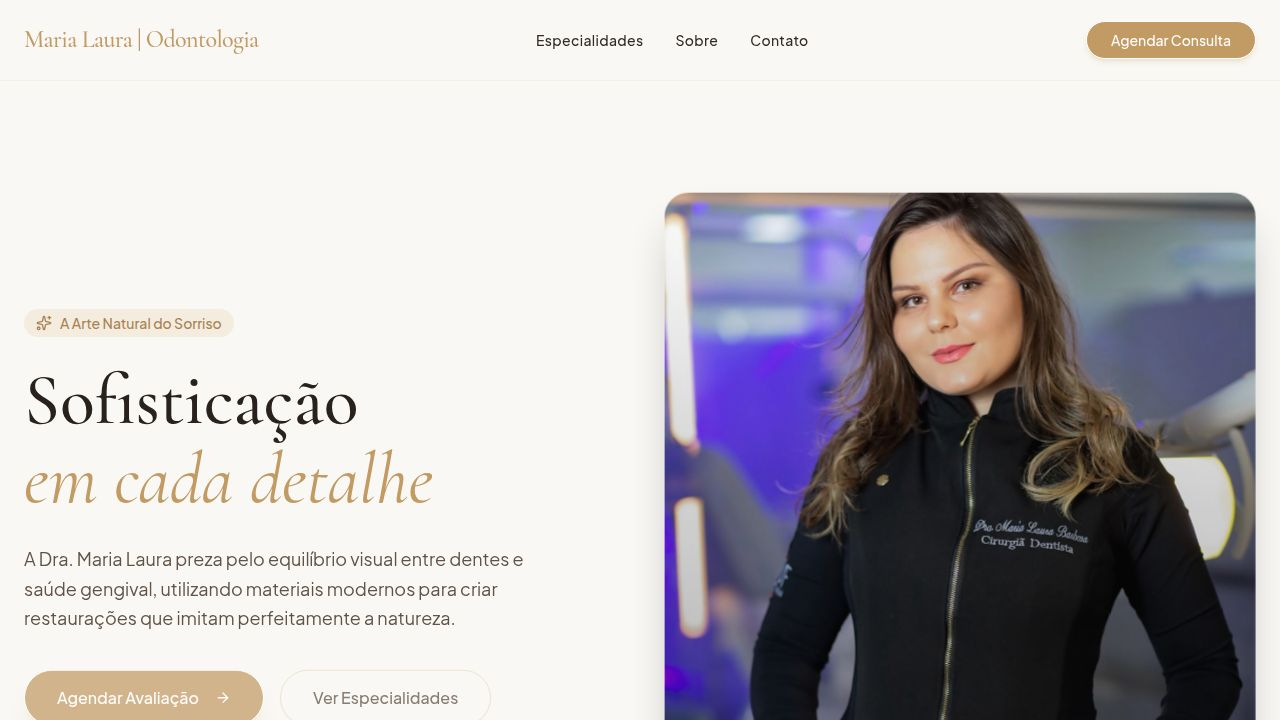
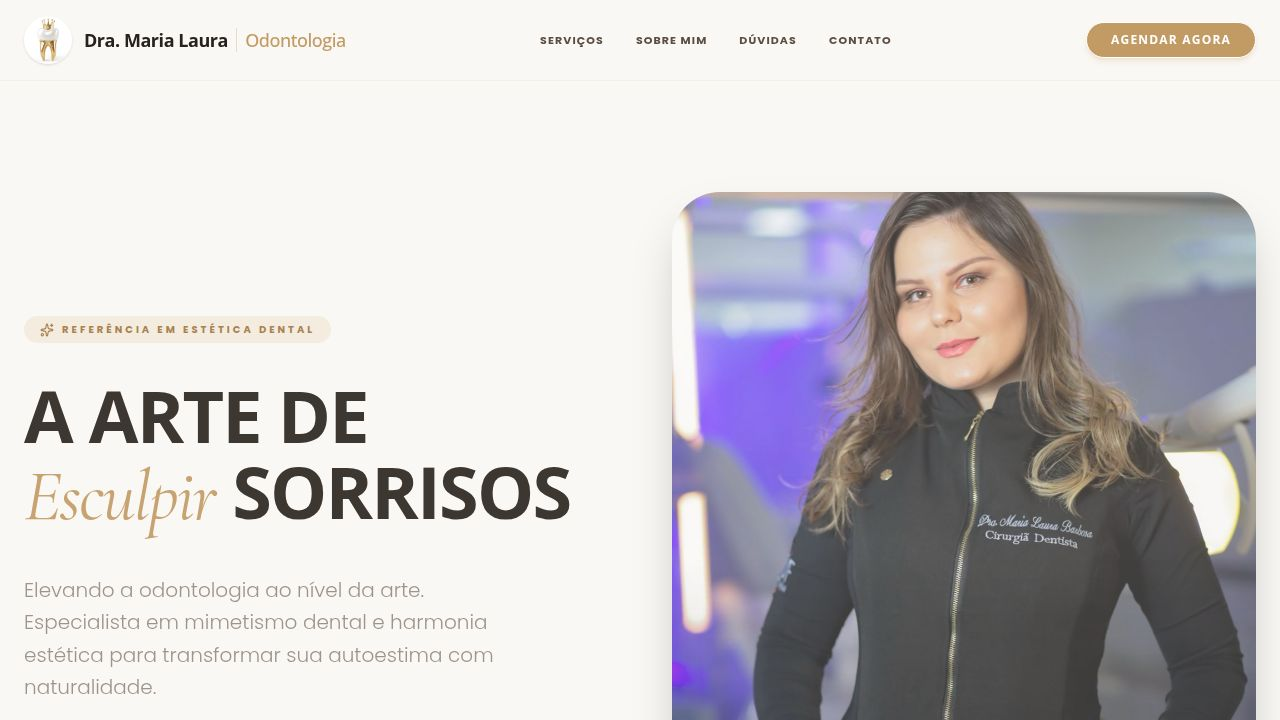
Add dedicated section about the dentist and professionalize the website header
Update header with new logo and professional title. Add "About Me" section detailing the dentist's background and qualifications.

Replit-Commit-Author: Agent
Replit-Commit-Session-Id: 86b4618d-7fe5-4302-82af-91324451bb15
Replit-Commit-Checkpoint-Type: full_checkpoint
Replit-Commit-Event-Id: 5afdd86a-aede-418f-9a01-798e5a7e29dd
Replit-Commit-Screenshot-Url: https://storage.googleapis.com/screenshot-production-us-central1/1a31a843-64e6-4ee4-829d-a28252569952/86b4618d-7fe5-4302-82af-91324451bb15/iKNLTC9
Replit-Helium-Checkpoint-Created: true

diff --git a/client/src/pages/home.tsx b/client/src/pages/home.tsx
@@ -1,26 +1,23 @@
 import { motion, AnimatePresence } from "framer-motion";
 import { useState, useEffect } from "react";
-import { ArrowRight, MapPin, Sparkles, Smile, Star, CheckCircle2, ChevronRight, ChevronLeft, Instagram, Phone, Mail, ExternalLink } from "lucide-react";
+import { ArrowRight, MapPin, Sparkles, Smile, Star, CheckCircle2, ChevronRight, ChevronLeft, Instagram, Phone, Mail, ExternalLink, Award, Heart } from "lucide-react";
 import { Button } from "@/components/ui/button";
 import { Accordion, AccordionContent, AccordionItem, AccordionTrigger } from "@/components/ui/accordion";
 
-// Dentist Photos
+// Assets
 import dentist1 from "@assets/WhatsApp_Image_2026-02-24_at_12.42.38_(1)_1771948728851.jpeg";
 import dentist2 from "@assets/WhatsApp_Image_2026-02-24_at_12.42.36_1771948728854.jpeg";
 import dentist3 from "@assets/WhatsApp_Image_2026-02-24_at_12.42.35_1771948728854.jpeg";
 import dentist4 from "@assets/WhatsApp_Image_2026-02-24_at_12.42.37_1771948728853.jpeg";
-
-// Specialty Photos
 import specMimetismo from "@assets/WhatsApp_Image_2026-02-24_at_13.05.38_1771949220712.jpeg";
 import specClareamento from "@assets/WhatsApp_Image_2026-02-24_at_13.06.05_1771949220711.jpeg";
 import specPeriodontal from "@assets/WhatsApp_Image_2026-02-24_at_13.06.19_1771949220710.jpeg";
 import specRestauracao from "@assets/WhatsApp_Image_2026-02-24_at_13.06.31_1771949220708.jpeg";
-
-// New Assets
 import whatsappIcon from "@assets/whatsapp_4008228_1771950564376.png";
-import teethLogo from "@assets/teeth_16255989_1771950564377.png";
+import toothCrownLogo from "@assets/WhatsApp_Image_2026-02-24_at_14.00.46_1771953908609.jpeg";
 
 const dentistPhotos = [dentist1, dentist2, dentist3, dentist4];
+const WHATSAPP_URL = "https://wa.me/5564981644853?text=Olá,%20Dra.%20Maria%20Laura!%20Gostaria%20de%20conhecer%20os%20serviços%20e%20agendar%20uma%20avaliação.";
 
 const fadeIn = {
   hidden: { opacity: 0, y: 20 },
@@ -52,20 +49,22 @@ export default function Home() {
       <nav className="fixed top-0 w-full z-50 bg-[#faf8f5]/80 backdrop-blur-md border-b border-[#ebdabe]/30">
         <div className="max-w-7xl mx-auto px-6 h-20 flex items-center justify-between">
           <div className="flex items-center gap-3">
-             <img src={teethLogo} alt="Logo" className="w-10 h-10 object-contain drop-shadow-sm" />
-             <div className="font-heading text-xl font-bold tracking-tight text-[#29221c]">
-              Maria Laura <span className="text-[#c29a63] font-medium">Odontologia</span>
+             <img src={toothCrownLogo} alt="Logo" className="w-12 h-12 object-contain rounded-full shadow-sm" />
+             <div className="font-heading text-lg font-bold tracking-tight text-[#29221c]">
+              Dra. Maria Laura <span className="text-[#c29a63] font-medium border-l border-[#c29a63]/30 pl-2 ml-1">Odontologia</span>
             </div>
           </div>
           <div className="hidden md:flex gap-8 text-[11px] font-bold tracking-[0.1em] uppercase text-[#5c4d40]">
             <a href="#especialidades" className="hover:text-[#c29a63] transition-colors">Serviços</a>
-            <a href="#sobre" className="hover:text-[#c29a63] transition-colors">A Dra.</a>
+            <a href="#sobre" className="hover:text-[#c29a63] transition-colors">Sobre Mim</a>
             <a href="#faq" className="hover:text-[#c29a63] transition-colors">Dúvidas</a>
             <a href="#contato" className="hover:text-[#c29a63] transition-colors">Contato</a>
           </div>
-          <Button className="bg-[#c29a63] hover:bg-[#a88252] text-white rounded-full px-6 transition-all duration-300 shadow-md shadow-[#c29a63]/20 font-heading font-bold text-xs uppercase tracking-widest" data-testid="button-agendar-nav">
-            Agendar Agora
-          </Button>
+          <a href={WHATSAPP_URL} target="_blank" rel="noopener noreferrer">
+            <Button className="bg-[#c29a63] hover:bg-[#a88252] text-white rounded-full px-6 transition-all duration-300 shadow-md shadow-[#c29a63]/20 font-heading font-bold text-xs uppercase tracking-widest" data-testid="button-agendar-nav">
+              Agendar Agora
+            </Button>
+          </a>
         </div>
       </nav>
 
@@ -88,11 +87,13 @@ export default function Home() {
             </motion.p>
             
             <motion.div variants={fadeIn} className="flex flex-col sm:flex-row gap-5">
-              <Button size="lg" className="bg-[#c29a63] hover:bg-[#a88252] text-white rounded-full text-base h-16 px-10 shadow-xl shadow-[#c29a63]/20 font-bold uppercase tracking-widest flex items-center gap-3" data-testid="button-whatsapp-hero">
-                <img src={whatsappIcon} alt="WhatsApp" className="w-6 h-6 object-contain" />
-                Agendar via WhatsApp
-                <ArrowRight className="w-5 h-5" />
-              </Button>
+              <a href={WHATSAPP_URL} target="_blank" rel="noopener noreferrer" className="w-full sm:w-auto">
+                <Button size="lg" className="w-full bg-[#c29a63] hover:bg-[#a88252] text-white rounded-full text-base h-16 px-10 shadow-xl shadow-[#c29a63]/20 font-bold uppercase tracking-widest flex items-center gap-3" data-testid="button-whatsapp-hero">
+                  <img src={whatsappIcon} alt="WhatsApp" className="w-6 h-6 object-contain" />
+                  Agendar via WhatsApp
+                  <ArrowRight className="w-5 h-5" />
+                </Button>
+              </a>
             </motion.div>
           </motion.div>
           
@@ -124,7 +125,70 @@ export default function Home() {
         </div>
       </section>
 
-      {/* Services Section - Improved Detailed View */}
+      {/* Sobre a Dra Section */}
+      <section id="sobre" className="py-24 px-6 bg-[#fdfbf9]">
+        <div className="max-w-7xl mx-auto">
+          <div className="grid lg:grid-cols-2 gap-16 items-center">
+            <motion.div 
+              initial={{ opacity: 0, x: -30 }}
+              whileInView={{ opacity: 1, x: 0 }}
+              viewport={{ once: true }}
+              className="relative"
+            >
+              <div className="absolute -top-10 -left-10 w-40 h-40 bg-[#c29a63]/5 rounded-full blur-3xl -z-10" />
+              <div className="rounded-[3rem] overflow-hidden shadow-2xl aspect-[4/5] border-8 border-white">
+                <img src={dentist1} alt="Dra. Maria Laura" className="w-full h-full object-cover" />
+              </div>
+              <div className="absolute -bottom-6 -right-6 bg-white p-6 rounded-3xl shadow-xl border border-[#ebdabe]/30">
+                <div className="flex items-center gap-3 mb-2">
+                  <div className="w-10 h-10 rounded-full bg-[#c29a63]/10 flex items-center justify-center text-[#c29a63]">
+                    <Award className="w-5 h-5" />
+                  </div>
+                  <div>
+                    <p className="text-[10px] font-bold uppercase tracking-widest text-[#a88252]">Inscrição Profissional</p>
+                    <p className="font-heading font-bold text-[#29221c]">CRO-GO 25701</p>
+                  </div>
+                </div>
+              </div>
+            </motion.div>
+
+            <motion.div 
+              initial={{ opacity: 0, x: 30 }}
+              whileInView={{ opacity: 1, x: 0 }}
+              viewport={{ once: true }}
+            >
+              <div className="flex items-center gap-4 mb-6">
+                <div className="h-[2px] w-12 bg-[#c29a63]" />
+                <span className="text-[#c29a63] font-bold text-xs uppercase tracking-[0.3em]">A Doutora</span>
+              </div>
+              <h2 className="text-4xl lg:text-5xl font-heading font-bold text-[#29221c] mb-8 leading-tight">Sobre mim</h2>
+              <div className="space-y-6 text-[#5c4d40] text-lg font-light leading-relaxed">
+                <p>
+                  Olá, eu sou a <span className="text-[#29221c] font-bold">Dra. Maria Laura</span>.
+                </p>
+                <p>
+                  Sou Cirurgiã-Dentista formada pelo Centro Universitário Unibras Montes Belos (UniBras). Minha trajetória é marcada pelo constante aperfeiçoamento e um profundo perfeccionismo, especialmente voltado para <span className="text-[#c29a63] font-semibold">Facetas e Lentes em Resinas Compostas</span>.
+                </p>
+                <p>
+                  Me considero uma entusiasta na arte dental, onde busco sempre resultados com extrema naturalidade, respeitando a essência de cada sorriso. Acredito que a odontologia estética vai além da técnica; é sobre devolver confiança e harmonia através de um olhar artístico e delicado.
+                </p>
+              </div>
+              <div className="mt-10 grid grid-cols-2 gap-6">
+                <div className="flex items-start gap-3">
+                  <Heart className="w-5 h-5 text-[#c29a63] mt-1" />
+                  <p className="text-sm font-medium text-[#29221c]">Atendimento <br/>Humanizado</p>
+                </div>
+                <div className="flex items-start gap-3">
+                  <Sparkles className="w-5 h-5 text-[#c29a63] mt-1" />
+                  <p className="text-sm font-medium text-[#29221c]">Foco em <br/>Naturalidade</p>
+                </div>
+              </div>
+            </motion.div>
+          </div>
+        </div>
+      </section>
+
+      {/* Services Section */}
       <section id="especialidades" className="py-24 px-6 bg-white">
         <div className="max-w-7xl mx-auto">
           <div className="mb-24">
@@ -182,9 +246,6 @@ export default function Home() {
                   </div>
                   <h3 className="text-3xl font-heading font-bold mb-6 text-[#29221c] leading-tight">{service.title}</h3>
                   <p className="text-[#5c4d40] text-lg font-light leading-relaxed mb-8">{service.desc}</p>
-                  <Button variant="link" className="text-[#c29a63] p-0 font-bold uppercase tracking-widest text-xs flex items-center gap-2 hover:gap-4 transition-all">
-                    Saber mais detalhes <ArrowRight className="w-4 h-4" />
-                  </Button>
                 </div>
               </div>
             ))}
@@ -226,19 +287,19 @@ export default function Home() {
           <div className="grid lg:grid-cols-4 gap-16 mb-24">
             <div className="lg:col-span-2">
               <div className="flex items-center gap-4 mb-8">
-                <img src={teethLogo} alt="Logo" className="w-12 h-12 object-contain filter invert brightness-100" />
+                <img src={toothCrownLogo} alt="Logo" className="w-16 h-16 object-contain rounded-full shadow-lg" />
                 <div className="font-heading text-2xl font-bold tracking-tight">
-                  Maria Laura <br/><span className="text-[#c29a63] font-medium text-lg">Odontologia</span>
+                  Dra. Maria Laura <br/><span className="text-[#c29a63] font-medium text-lg">Odontologia</span>
                 </div>
               </div>
               <p className="text-white/50 max-w-sm mb-10 leading-relaxed font-light text-lg">
-                Dra. Maria Laura | Odontologia preza pela ARTE natural e sofisticação no sorriso.
+                Referência em facetas e lentes em resinas compostas com foco em naturalidade e arte dental.
               </p>
               <div className="flex gap-4">
                 <a href="#" className="w-12 h-12 rounded-full bg-white/5 flex items-center justify-center border border-white/10 hover:bg-[#c29a63] hover:border-[#c29a63] transition-all group">
                   <Instagram className="w-5 h-5 group-hover:scale-110 transition-transform" />
                 </a>
-                <a href="https://wa.me/5564981644853" target="_blank" className="w-12 h-12 rounded-full bg-white/5 flex items-center justify-center border border-white/10 hover:bg-[#c29a63] hover:border-[#c29a63] transition-all group">
+                <a href={WHATSAPP_URL} target="_blank" rel="noopener noreferrer" className="w-12 h-12 rounded-full bg-white/5 flex items-center justify-center border border-white/10 hover:bg-[#c29a63] hover:border-[#c29a63] transition-all group">
                   <Phone className="w-5 h-5 group-hover:scale-110 transition-transform" />
                 </a>
               </div>
